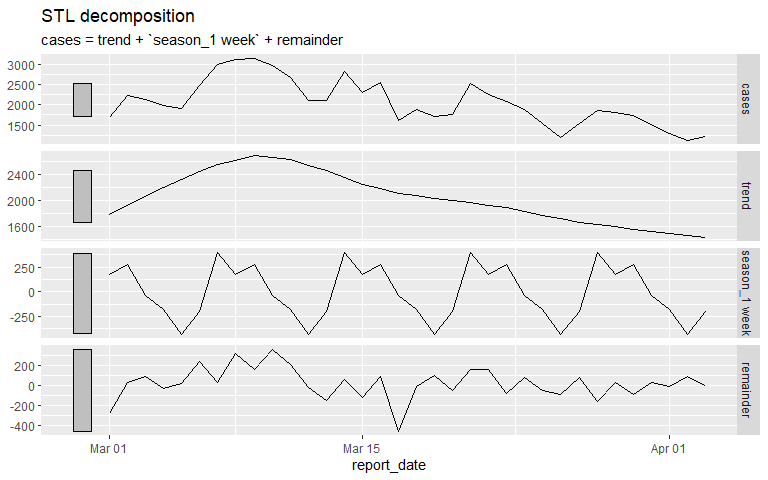
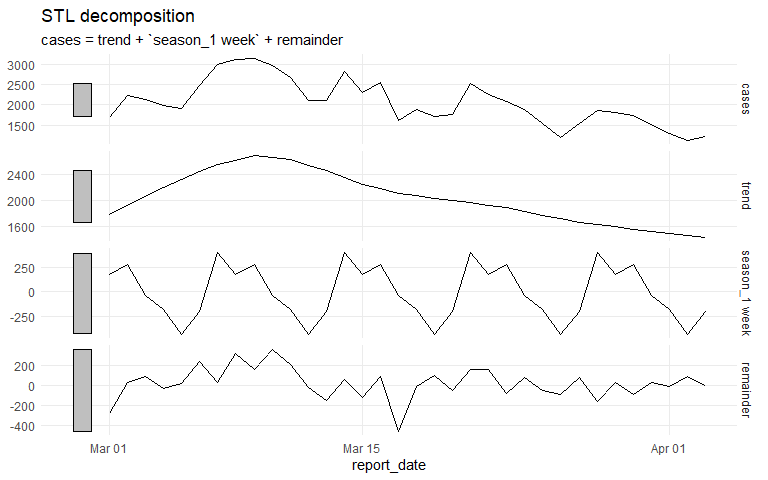
Simplify code and STL plot

Changed region(s): [[0.9375, 0.0938, 1.0, 0.9062]]

diff --git a/covid-time-series.md b/covid-time-series.md
@@ -41,27 +41,12 @@ cases_df <- read_csv(case_data_url) %>%
 cases_by_dhb_df <- cases_df %>% 
   count(report_date, dhb, case_status)
 
-cases_by_dhb_df
+# cases_by_dhb_df
 ```
-
-    ## # A tibble: 3,572 x 4
-    ##    report_date dhb               case_status     n
-    ##    <date>      <chr>             <chr>       <int>
-    ##  1 2020-02-26  Auckland          Confirmed       1
-    ##  2 2020-03-02  Waitemata         Confirmed       1
-    ##  3 2020-03-04  Counties Manukau  Confirmed       1
-    ##  4 2020-03-04  Waitemata         Confirmed       1
-    ##  5 2020-03-05  Counties Manukau  Probable        1
-    ##  6 2020-03-05  Waitemata         Probable        1
-    ##  7 2020-03-06  Counties Manukau  Confirmed       1
-    ##  8 2020-03-12  Counties Manukau  Confirmed       1
-    ##  9 2020-03-13  Southern          Confirmed       1
-    ## 10 2020-03-14  Capital and Coast Confirmed       1
-    ## # ... with 3,562 more rows
 
 ## Wellington figures
 
-Include Hutt and Wairarapa as well as CCDHB.
+Including Hutt and Wairarapa as well as CCDHB.
 
 ``` r
 dhb_cases_df <- cases_by_dhb_df %>% 
@@ -115,7 +100,9 @@ dhb_cases_stl <- dhb_cases_ts %>%
   components()
 
 dhb_cases_stl %>% 
-  autoplot()
+  autoplot() +
+  theme_minimal() +
+  theme(panel.grid.minor = element_blank())
 ```
 
 ![](covid-time-series_files/figure-markdown_github/basic-ts-1.png)
@@ -156,11 +143,7 @@ minima <- dhb_cases_stl_df %>%
 
 maxima <- dhb_cases_stl_df %>% 
   summarise(cases = max(cases), adjusted = max(season_adjust), trend = max(trend))
-
-round(maxima$cases / minima$cases, digits = 1)
 ```
-
-    ## [1] 2.8
 
 Looking at raw case numbers, the peak on 2022-03-09 was about 2.8 times what it is now.
 
